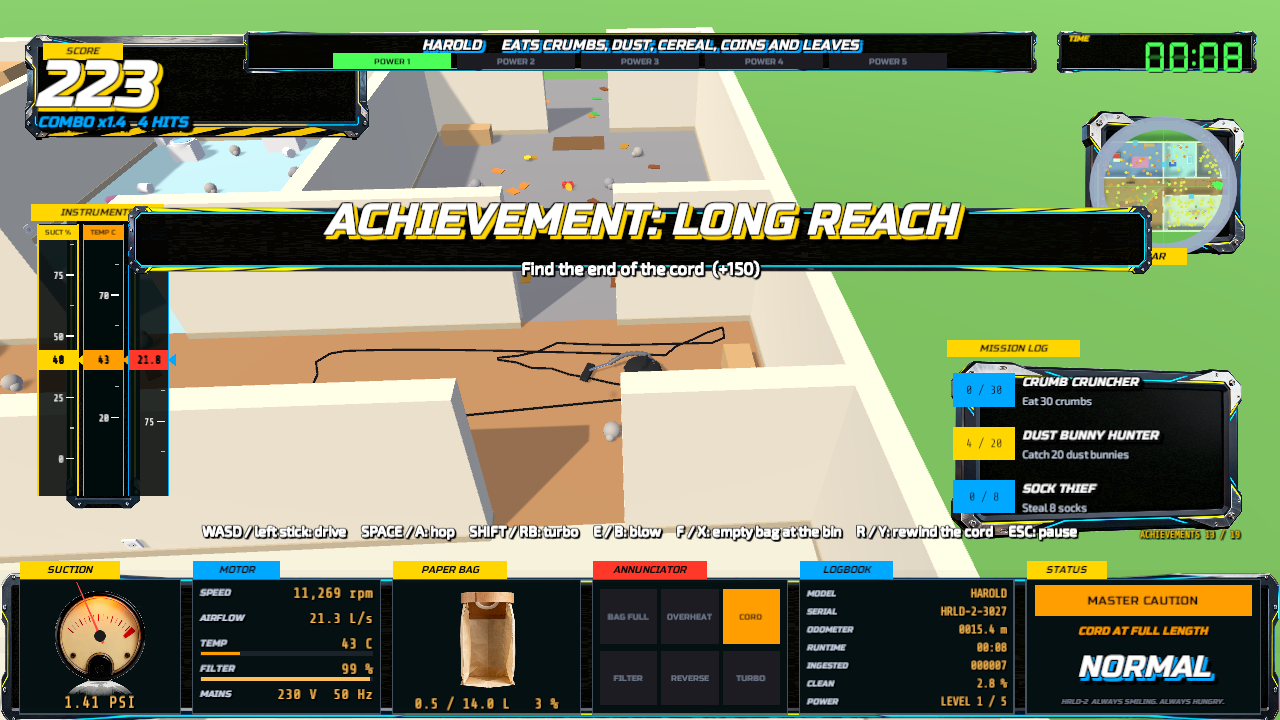
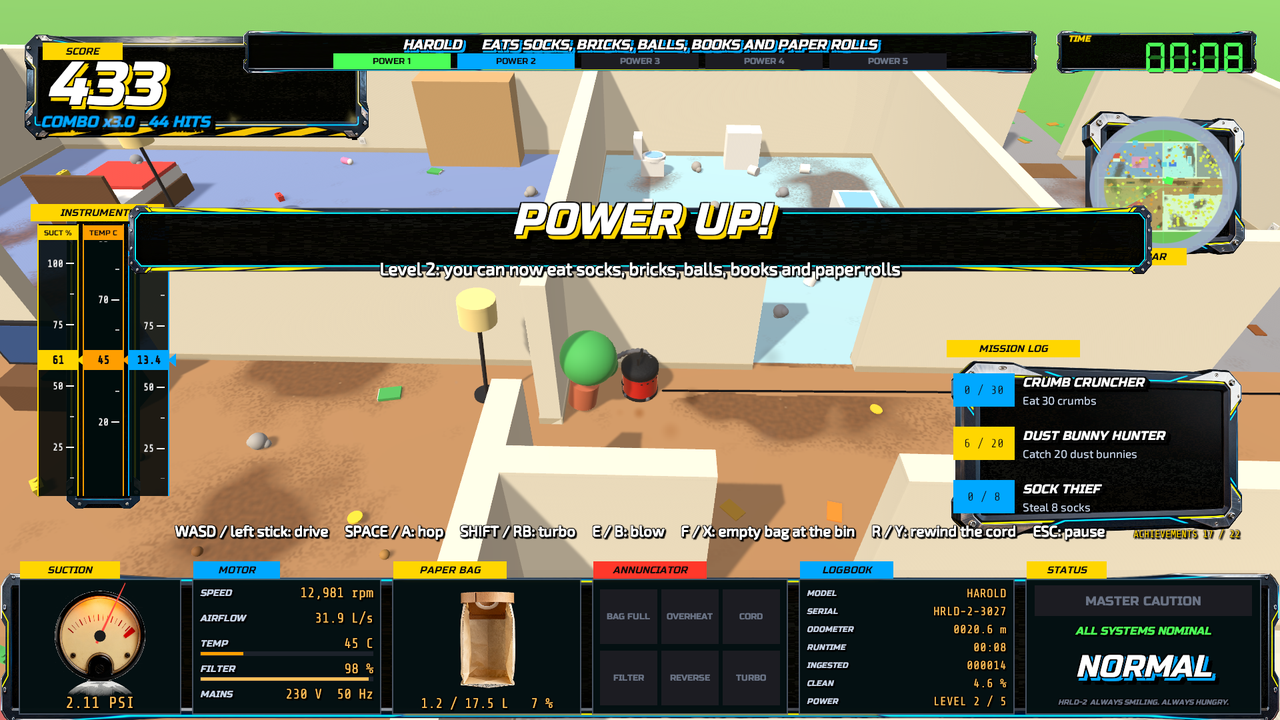
Docs and screenshots for 0.2.0: realistic look, cocoa powder, the cat; CLAUDE.md on the new systems and the Xbox finding
Claude-Session: https://claude.ai/code/session_01S8Gcv6w4NipyAN3xdLWj4x

diff --git a/CLAUDE.md b/CLAUDE.md
@@ -35,9 +35,11 @@ Generated assets follow the kie-ai skill discipline (idempotent, raw downloads k
 overwritten without `--force`, balance printed before and after). Look at every image before shipping it: a
 `success` proves an image came back, not that the prompt was honoured. Binary assets are tracked with git LFS.
 
-The smoke test runs the player with `-smoke <dir>` (see `SmokeRunner`): it never injects keystrokes or steals focus,
-so it is safe while the owner is using the PC. Look at the two PNGs it produces; the log scan alone only proves the
-game did not throw. The player log line `d3d12: failed to query info queue interface` is benign.
+The smoke test runs the player with `-smoke <dir>` (see `SmokeRunner`, `-Width/-Height` for 1080p listing shots): it
+never injects keystrokes or steals focus, so it is safe while the owner is using the PC. It drives, chases the cat
+(`smoke-cat.png`, cat state in the log), photographs the powder trail from above (`smoke-powder.png`), shortens the
+cord to 4 m and pulls the plug out (`smoke-taut.png`, `smoke-rewind.png`). Look at the PNGs; the log scan alone only
+proves the game did not throw. The player log line `d3d12: failed to query info queue interface` is benign.
 
 Builds are local only. There is no GitHub Actions workflow on purpose (Unity in CI burns minutes and needs a license
 server); do not add one. The editor path is resolved in `tools/common.ps1`, override with `$env:VCS_UNITY`.
@@ -102,6 +104,21 @@ Everything is created from code at runtime; there are no prefabs, no art, no aud
   false: no suction, telemetry drops, the CORD lamp and status show it; driving within 1.4 m of any socket
   plugs back in. Sockets are built in `LevelBuilder.BuildSockets`, one per room, the hall one first.
 - `GameAudio` synthesises every clip at startup (`AudioClip.Create`); `EffectsFactory` configures particle systems.
+- Look (2026-09-05, "realistic, not cartoon"): `VacuumVisuals.RealisticLook` drops the googly eyes; `VacuumDetails`
+  adds vent slots, nameless badges, hubcaps, screws and seams per model id on top of the `VacuumModels` builders;
+  `Palette.Plastic/Glossy/Rubber/Fabric/Chrome` are normal-mapped (`ProceduralTextures`: tileable grain, brushed,
+  weave, wood) on `Resources/Materials/LitBump.mat` (carries `_NORMALMAP` so the variant ships); MeshKit meshes
+  get tangents. Lighting: trilight ambient, soft shadows at VeryHigh, MSAA 4x, and a realtime `ReflectionProbe`
+  rendered once per level build (`BuildLighting`). LineRenderers keep `Palette.Mat` (no tangents).
+- Cocoa powder (`PowderSystem`, one `PowderLayer` quad per room at y = 0.012): generated RGBA texture at 36 px/m
+  (splats, streaks, dusting), `Resources/Materials/Fade.mat` (Standard Fade, keyword in the asset). `SuctionSystem.Suck`
+  calls `Powder.Vacuum(nozzle, radius)` every physics step while grounded and the bag has room: it zeroes alpha in a
+  disc, so the vacuum's path stays visible; cleared m² go to `GameManager.OnPowderCleaned` (40 pts/m², event
+  `powder`, bag fill 1.5 L/m²) and every 1.5 m² counts as one piece of mess in the cleanliness ratio.
+- The cat (`Cat`, spawned by `LevelBuilder.BuildCat` in the living room): idle / wander / flee state machine, three
+  raycast feelers to steer around walls and furniture (small mess is ignored), 8.5 m/s flee with a sideways panic hop
+  when nearly caught, knocks light debris; scares and bumps go to `GameManager.OnCatScared` (event `cat`, synthesised
+  meow / yowl in `GameAudio`). It has no `Debris`, so it can never be absorbed.
 - `Palette` caches one material per colour on top of `Resources/Materials/Lit.mat` (Standard shader). That material
   asset exists so the shader is not stripped from builds; `ProjectSetup` creates it. Never enable shader keywords
   at runtime (the variant will be missing in the build).
@@ -141,6 +158,9 @@ Unity 6 API names in use: `Rigidbody.linearVelocity`, `linearDamping`, `angularD
 - A warm batch build is about 15 s of editor time (Unity's `-timestamps` log shows it); the player build step is 6 s.
 - Large heredocs (over roughly 10 KB) fail in the Bash tool on this machine; write source files with the Write tool.
 - Everything on D:, deliverables in English, commit and push on `main` as soon as something works.
+- Xbox consoles: UWP games are no longer accepted on the Xbox Store (Microsoft Q&A, Nov 2025) and the Hub refuses to
+  add modules to this editor (installed outside the Hub); the only path is ID@Xbox (owner application) + GDK. Do not
+  install the UWP toolchain for it. Blender 4.5 portable lives in `D:\Program Files\Blender` (not used by the build).
 - The repo is PUBLIC (vrixel/VacuumCleanerSimulator2026) since 2026-09-05, downloads at `releases/latest`; never
   commit kie keys or anything from `D:\Cloclo\Projects\Nazisme`. `LICENSE.md` is all rights reserved (source for
   reference), fonts are OFL. Bump `bundleVersion` in `ProjectSetup` with every release.

diff --git a/README.md b/README.md
@@ -2,6 +2,7 @@
 
 A silly physics sandbox in the spirit of Goat Simulator, except you are a vacuum cleaner and the house is a mess.
 Drive around, suck up crumbs, socks, toys, then chairs, the couch, and eventually the toilet. Blow it all back out.
+Clear the cocoa powder off the floors (your path stays visible), scare the cat, and mind the cord.
 Rated for ages 8 and up: cartoon chaos, no violence.
 
 **Download:** the latest Windows build is on the
@@ -10,6 +11,7 @@ Rated for ages 8 and up: cartoon chaos, no violence.
 ![Cockpit](docs/screenshots/cockpit.png)
 ![Title screen and garage](docs/screenshots/title.png)
 ![Rewinding the cord](docs/screenshots/cord-rewind.png)
+![The vacuum's path through the cocoa powder](docs/screenshots/powder.png)
 
 Targets: Steam (Windows 64-bit) first, Xbox / Microsoft Store next. See `docs/PUBLISHING.md` and `docs/STORE.md`.
 Source is published for reference; see `LICENSE.md`.
